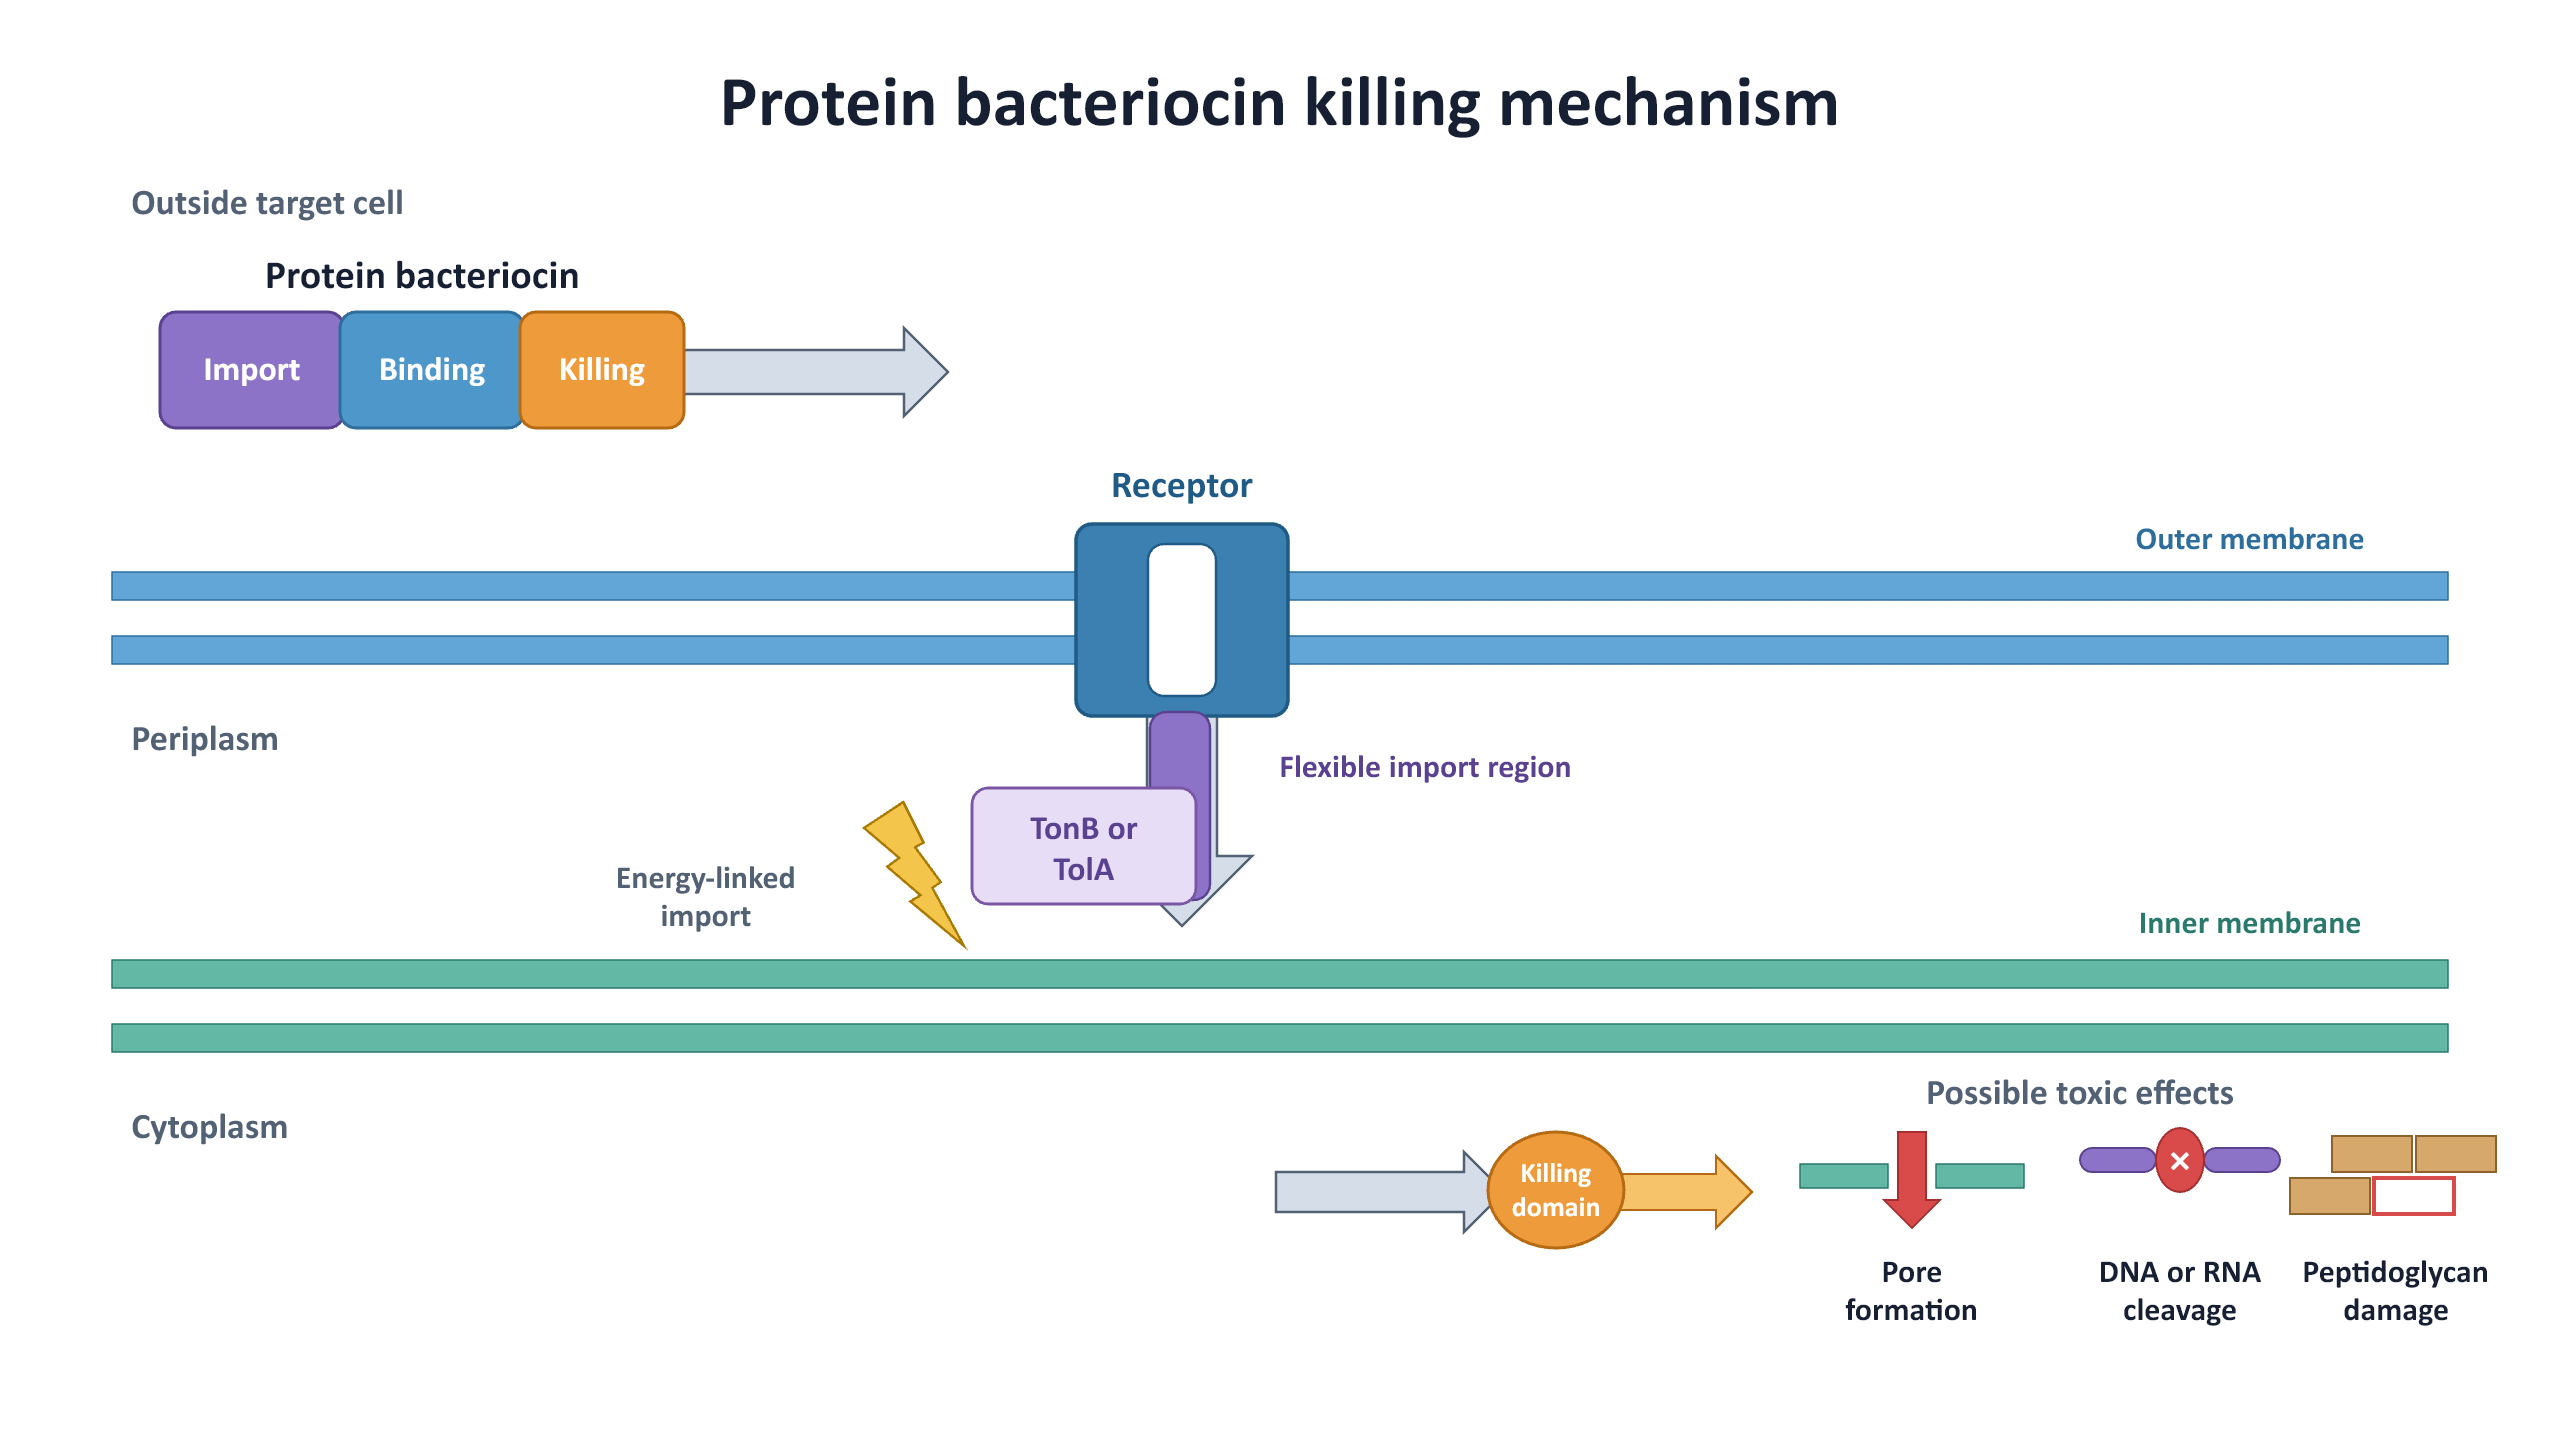
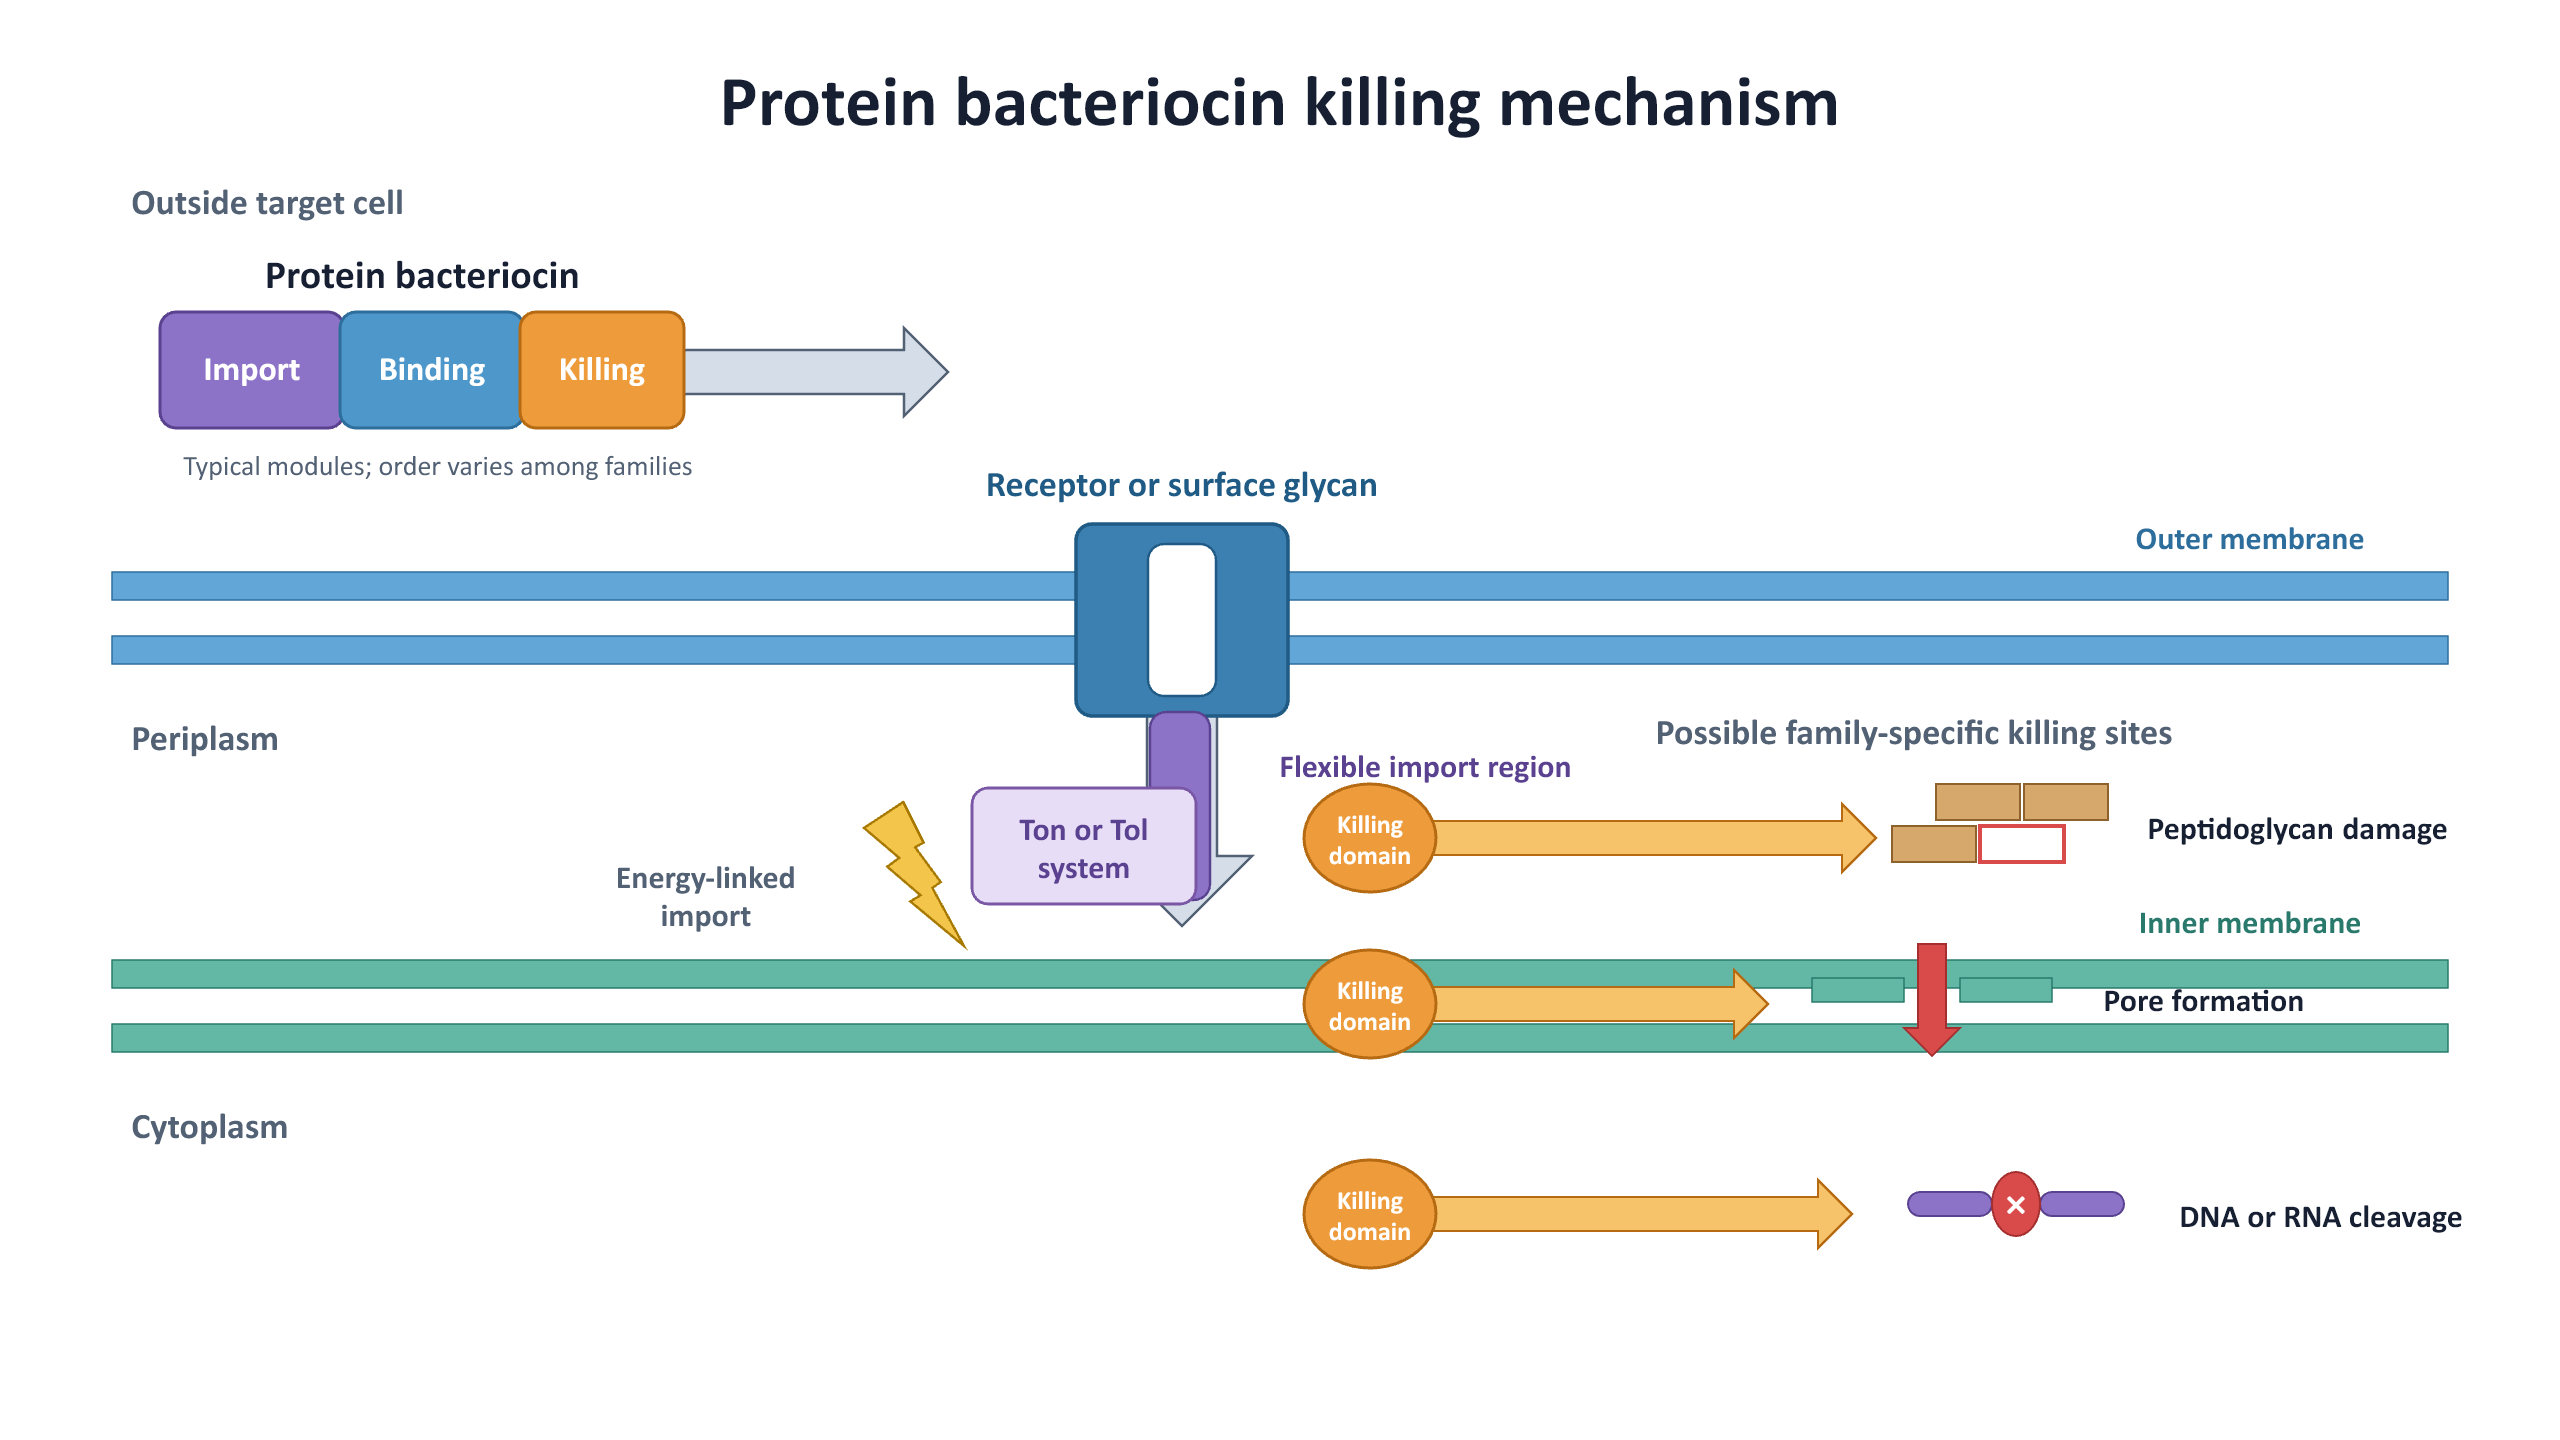
Update Figure 1

diff --git a/RELEASE_NOTES_v1.2.1.md b/RELEASE_NOTES_v1.2.1.md
@@ -1,0 +1,15 @@
+# Bacteriocin protein architecture and MIC analysis v1.2.1
+
+This release corrects the compartment layout of the original protein bacteriocin mechanism figure. The dataset, statistical analyses, and reported numerical results are unchanged.
+
+## Figure correction
+
+- Peptidoglycan damage is shown in the periplasm.
+- Pore formation is shown at the inner membrane.
+- DNA or RNA cleavage is shown in the cytoplasm.
+- Ton- and Tol-linked import are presented as alternative systems.
+- The figure now states that functional-module order varies among bacteriocin families.
+
+The editable PowerPoint source and final PNG are included under `analysis_package/figures/publication`.
+
+Archive and citation formats: https://doi.org/10.5281/zenodo.22065858

diff --git a/README.md b/README.md
@@ -18,7 +18,7 @@ The dataset includes 47 MIC observations for 22 sequence-validated bacteriocins 
 ├── CITATION.cff          Citation metadata
 ├── LICENSE.txt
 ├── README.md
-└── RELEASE_NOTES_v1.2.0.md
+└── RELEASE_NOTES_v1.2.1.md
 ```
 
 ## Run
@@ -31,4 +31,4 @@ python analysis_package/code/advanced_analysis.py
 
 The archived record provides downloadable citation formats:
 
-https://doi.org/10.5281/zenodo.22260427
+https://doi.org/10.5281/zenodo.22065858
